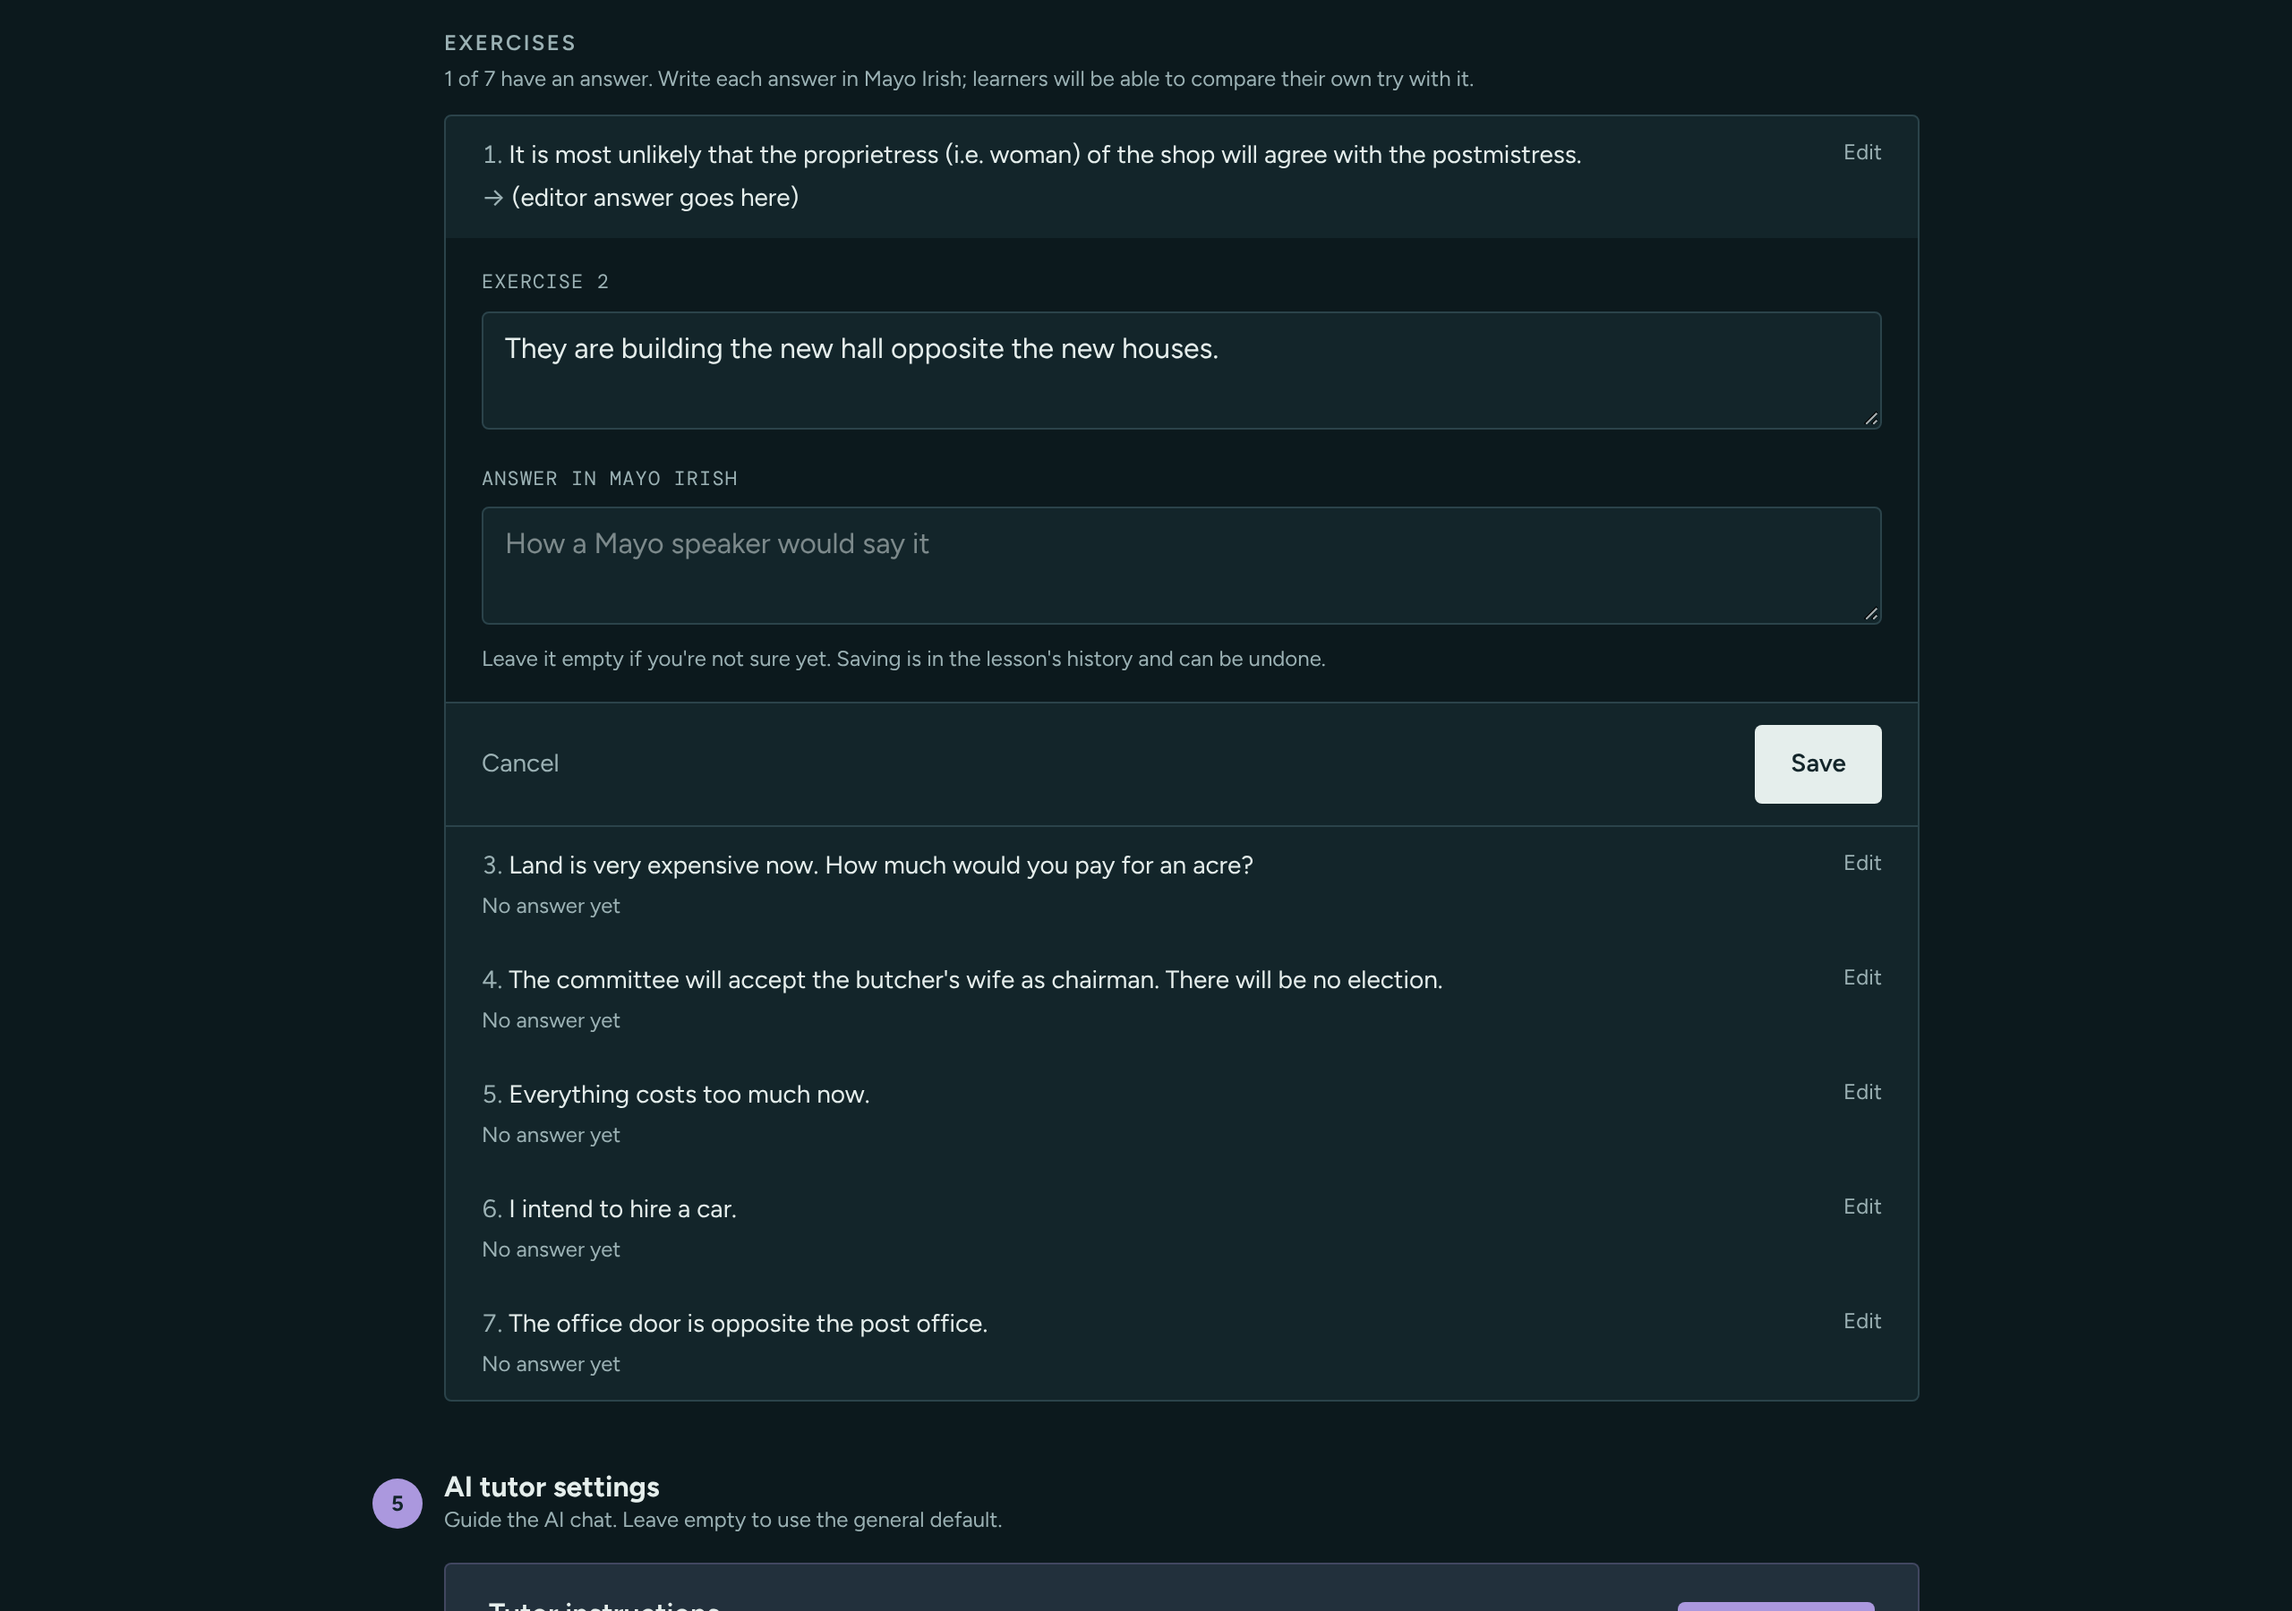
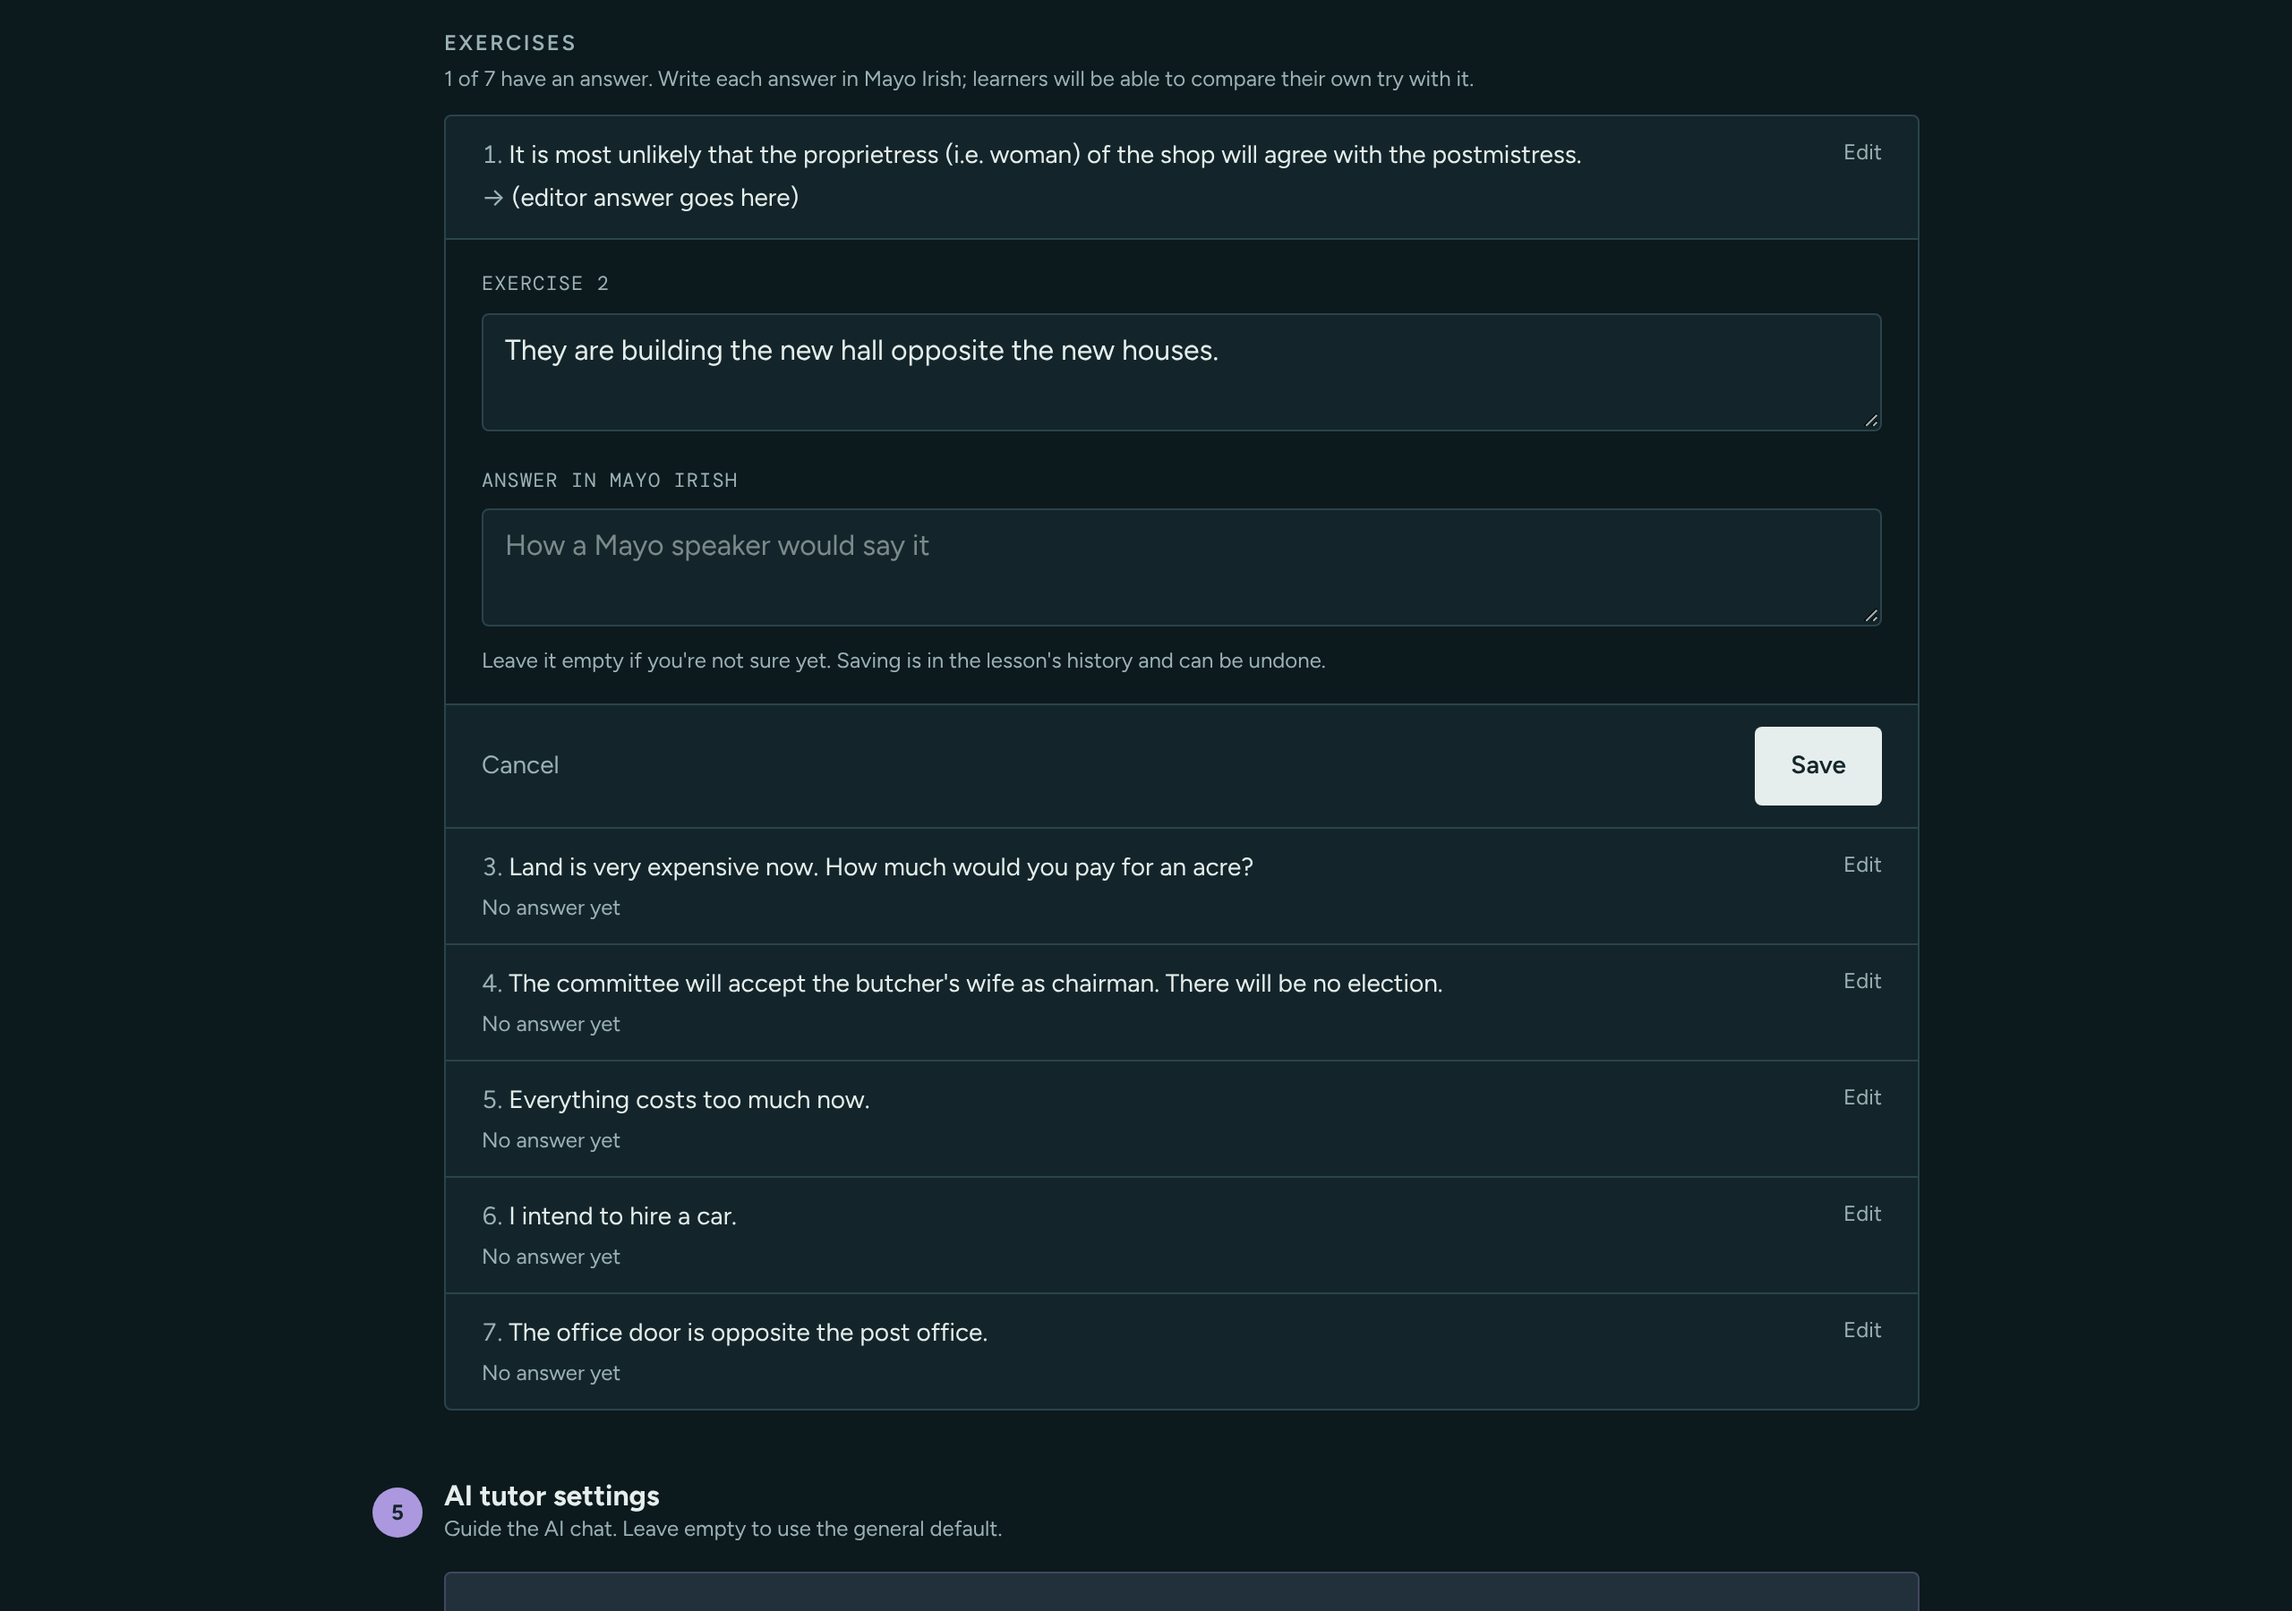
Exercises: update the answered count in place, keep answered exercises on a re-parse
Review fixes: the row and the count update together with Turbo; rows have
dividers; the answered scope ignores blank answers; every exercise field is
in the history; a lesson re-parse never drops exercises an editor has
answered and never takes an answer from the model.

Claude-Session: https://claude.ai/code/session_017wWQS9kpwyW2WYLHLfETCr

diff --git a/test/services/lesson_structure_parser_test.rb b/test/services/lesson_structure_parser_test.rb
@@ -1,0 +1,40 @@
+require "test_helper"
+
+# Only the exercise handling is tested here: a re-parse must never lose the
+# answers editors wrote, and never takes an answer from the model.
+class LessonStructureParserTest < ActiveSupport::TestCase
+  FakeClient = Struct.new(:json) do
+    def chat(parameters:) = { "choices" => [ { "message" => { "content" => json } } ] }
+  end
+
+  setup do
+    @lesson = Lesson.create!(number: 900, title: "Parser test", position: 900)
+    @lesson.update_column(:exercises, "1. The sun is shining.")
+    @lesson.exercises.create!(number: 1, prompt: "Old prompt", position: 1)
+  end
+
+  def parse(exercises)
+    parser = LessonStructureParser.allocate
+    parser.instance_variable_set(:@lesson, @lesson)
+    parser.instance_variable_set(:@client, FakeClient.new({ "exercises" => exercises }.to_json))
+    capture_io { parser.parse }
+  end
+
+  test "a re-parse replaces exercises nobody has answered, without taking an answer from the model" do
+    parse([ { "number" => 1, "prompt" => "The sun is shining.", "answer" => "from the model", "position" => 1 } ])
+
+    exercise = @lesson.exercises.reload.sole
+    assert_equal "The sun is shining.", exercise.prompt
+    assert_nil exercise.answer
+  end
+
+  test "a re-parse leaves a lesson's exercises alone once an editor has answered one" do
+    @lesson.exercises.first.update!(answer: "An editor's answer")
+
+    parse([ { "number" => 1, "prompt" => "The sun is shining.", "position" => 1 } ])
+
+    exercise = @lesson.exercises.reload.sole
+    assert_equal "Old prompt", exercise.prompt
+    assert_equal "An editor's answer", exercise.answer
+  end
+end

diff --git a/app/services/lesson_structure_parser.rb b/app/services/lesson_structure_parser.rb
@@ -117,11 +117,16 @@ class LessonStructureParser
     content = content.gsub(/\A```(?:json)?\n?/, '').gsub(/\n?```\z/, '').strip
     data = JSON.parse(content)
 
+    # Exercise answers are written by editors in the lesson editor. Once any
+    # exercise in a lesson has one, a re-parse leaves the exercises alone, so
+    # their answers are never lost.
+    keep_exercises = @lesson.exercises.answered.exists?
+
     ActiveRecord::Base.transaction do
       if replace
         @lesson.grammar_rules.destroy_all
         @lesson.text_passages.destroy_all
-        @lesson.exercises.destroy_all
+        @lesson.exercises.destroy_all unless keep_exercises
         @lesson.phrases.destroy_all
       end
 
@@ -190,14 +195,15 @@ class LessonStructureParser
         end
       end
 
-      # Exercises
-      Array(data['exercises']).each do |ex_data|
-        @lesson.exercises.create!(
-          number:   ex_data['number'],
-          prompt:   ex_data['prompt'],
-          answer:   ex_data['answer'],
-          position: ex_data['position']
-        )
+      # Exercises. The answer is never taken from the parse: editors write it.
+      unless keep_exercises
+        Array(data['exercises']).each do |ex_data|
+          @lesson.exercises.create!(
+            number:   ex_data['number'],
+            prompt:   ex_data['prompt'],
+            position: ex_data['position']
+          )
+        end
       end
     end
 

diff --git a/test/controllers/exercises_controller_test.rb b/test/controllers/exercises_controller_test.rb
@@ -87,4 +87,23 @@ class ExercisesControllerTest < ActionDispatch::IntegrationTest
     post lesson_version_undo_path(@lesson, version)
     assert_nil @exercise.reload.answer
   end
+
+  test "with Turbo, saving updates the row and the answered count in place" do
+    sign_in_as(@admin)
+
+    patch exercise_path(@exercise), params: { exercise: { answer: "Dia dhuit" } }, as: :turbo_stream
+
+    assert_response :success
+    assert_select "turbo-stream[action=replace][target=?]", ActionView::RecordIdentifier.dom_id(@exercise) do
+      assert_select "template p[lang=ga]", text: /Dia dhuit/
+    end
+    assert_select "turbo-stream[action=replace][target=exercises_count] template", text: /1 of 1 have an answer/
+  end
+
+  test "an answer of only spaces doesn't count as answered" do
+    @exercise.update_column(:answer, "   ")
+    assert_not_includes Exercise.answered, @exercise
+    @exercise.update_column(:answer, "Dia dhuit")
+    assert_includes Exercise.answered, @exercise
+  end
 end

diff --git a/app/models/exercise.rb b/app/models/exercise.rb
@@ -3,8 +3,7 @@ class Exercise < ApplicationRecord
   include EditHistory
 
   tracked_in_lesson_history lesson_id: ->(e) { e.lesson_id },
-                            label: ->(e) { I18n.t("exercises.label", number: e.number) },
-                            only: %i[prompt answer]
+                            label: ->(e) { I18n.t("exercises.label", number: e.number) }
 
   belongs_to :lesson
   has_many :phrases, as: :source, dependent: :destroy
@@ -14,7 +13,9 @@ class Exercise < ApplicationRecord
 
   normalizes :answer, with: ->(answer) { answer.strip.presence }
 
-  scope :answered, -> { where.not(answer: [ nil, "" ]) }
+  # Answers are normalized to nil when blank, but a row written another way
+  # (update_column, raw SQL) could still hold only spaces.
+  scope :answered, -> { where.not(answer: nil).where("TRIM(answer) <> ''") }
 
   searchable title: ->(e) { "Exercise #{e.number}" },
              body: ->(e) { [e.prompt, e.answer] },

diff --git a/app/controllers/exercises_controller.rb b/app/controllers/exercises_controller.rb
@@ -9,7 +9,11 @@ class ExercisesController < ApplicationController
 
   def update
     if @exercise.update(exercise_params)
-      redirect_to edit_lesson_path(@exercise.lesson, anchor: "exercises")
+      # With Turbo, the row and the "answered" count update in place.
+      respond_to do |format|
+        format.turbo_stream
+        format.html { redirect_to edit_lesson_path(@exercise.lesson, anchor: "exercises") }
+      end
     else
       render :edit, status: :unprocessable_entity
     end
